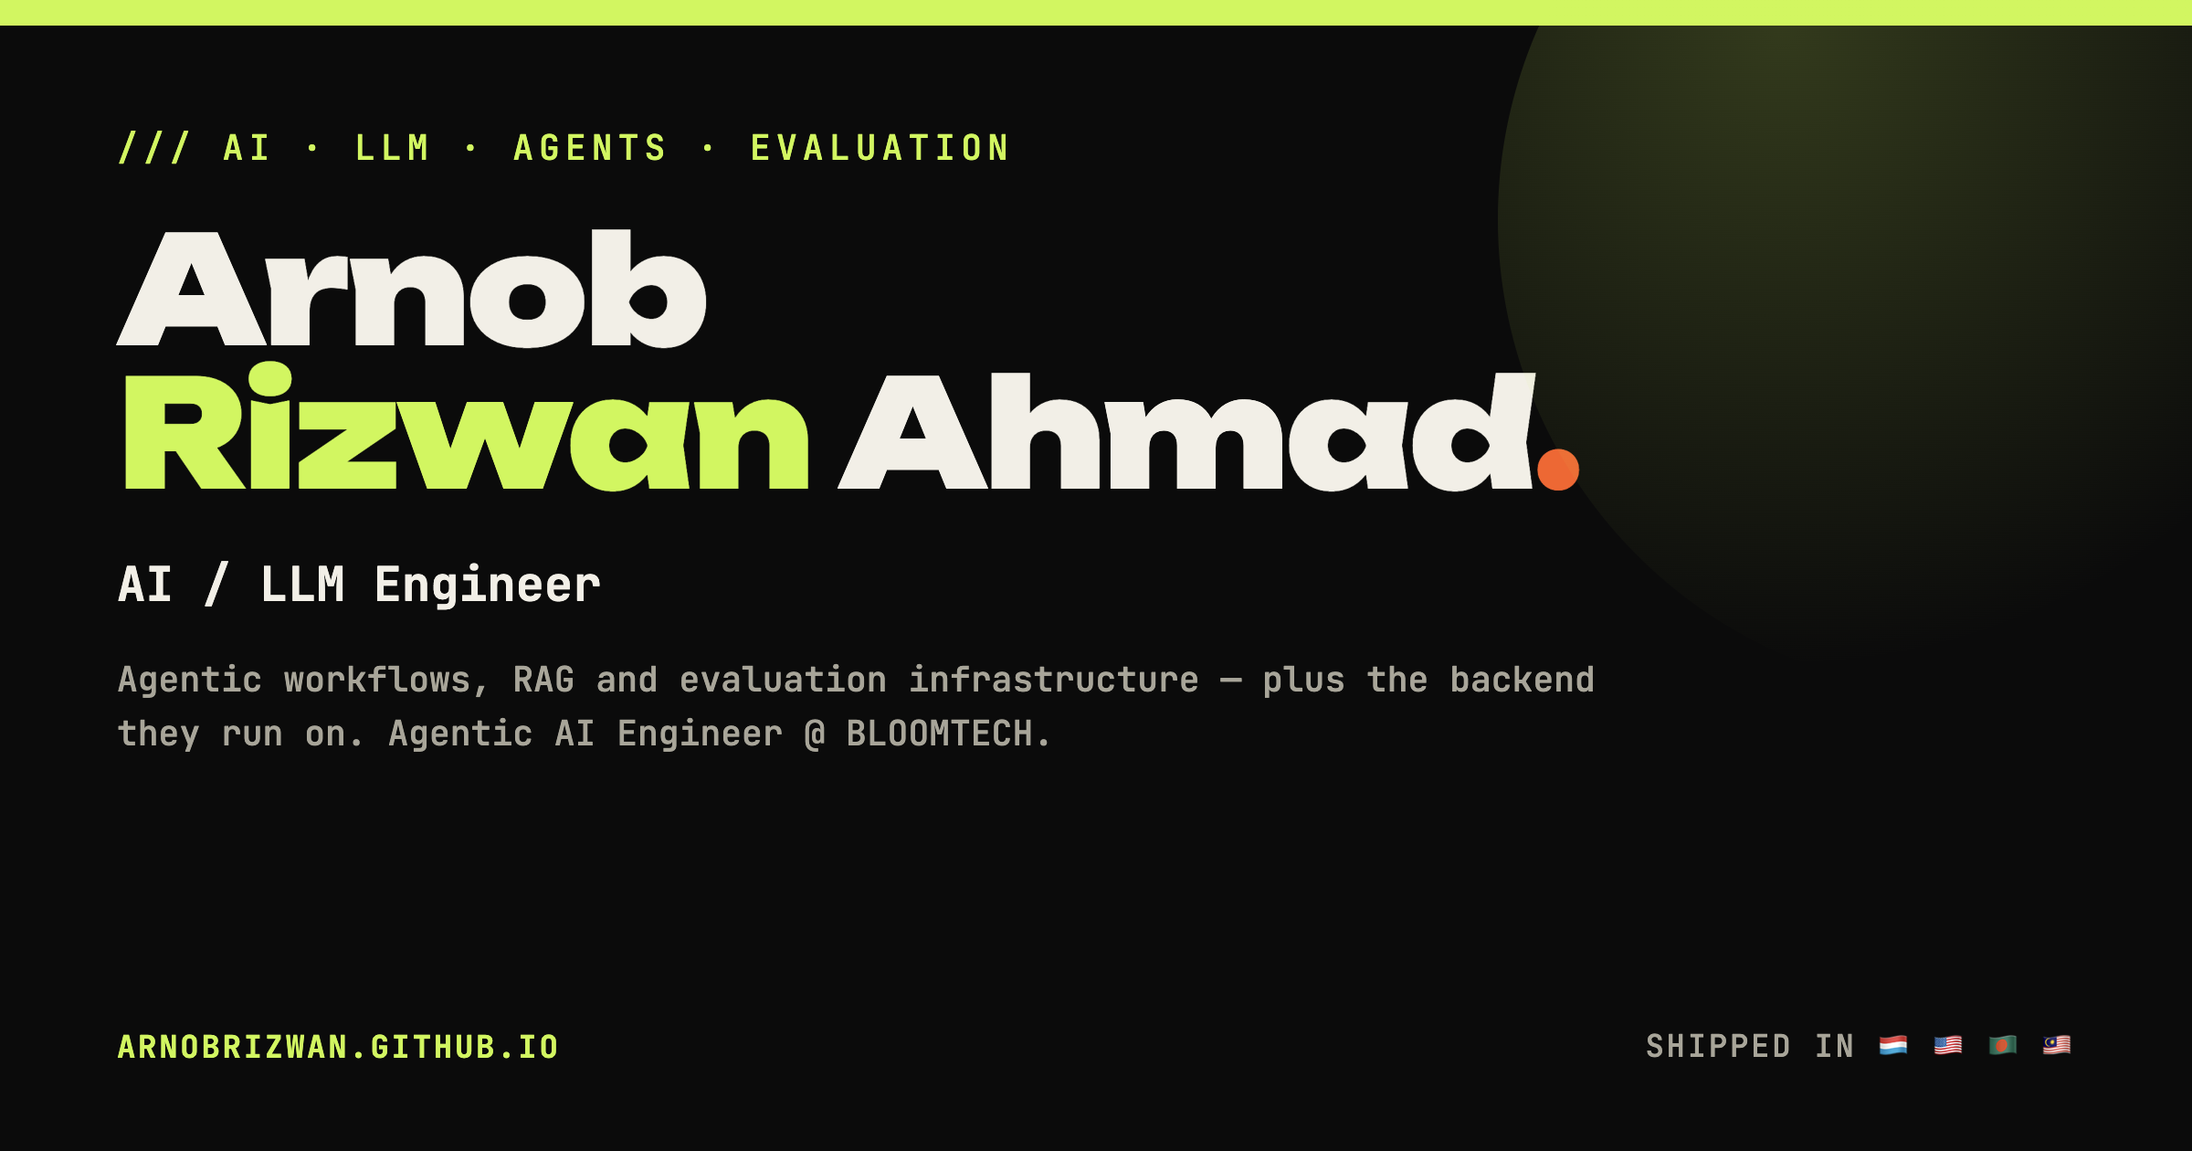
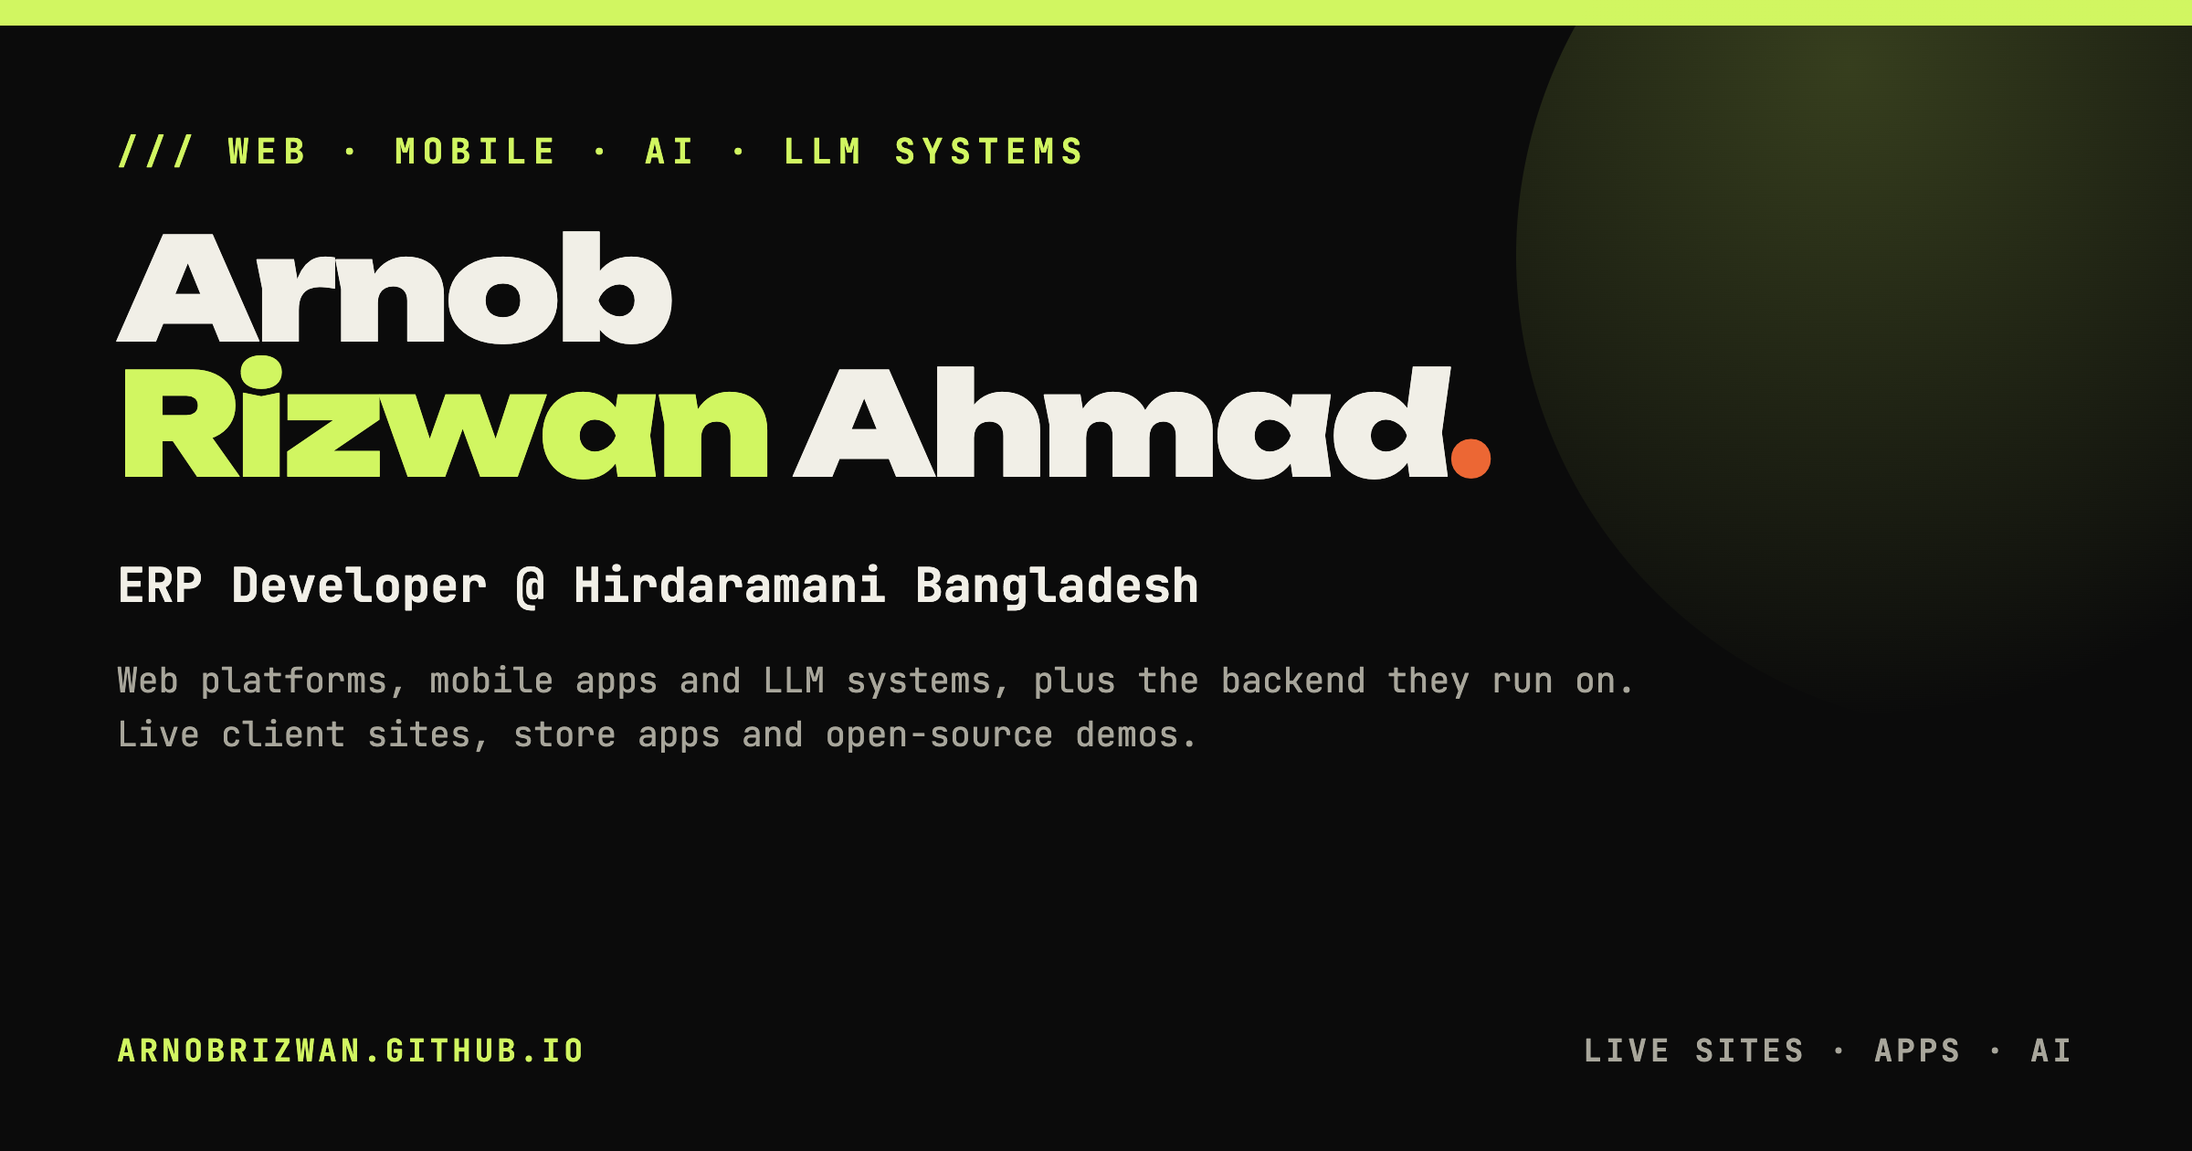
Refresh client project showcase and public app status

diff --git a/index.html b/index.html
@@ -4,16 +4,16 @@
 <meta charset="UTF-8">
 <meta name="viewport" content="width=device-width, initial-scale=1.0">
 <title>ARNOB RIZWAN AHMAD — AI / LLM Engineer</title>
-<meta name="description" content="Arnob Rizwan Ahmad — AI/LLM engineer building agentic workflows, RAG and evaluation infrastructure. ERP Developer at Hirdaramani, previously Agentic AI Engineer at BLOOMTECH, shipping products across 5 countries.">
+<meta name="description" content="Arnob Rizwan Ahmad — AI/LLM and full-stack engineer. ERP Developer at Hirdaramani Bangladesh, building web platforms, mobile apps and LLM systems for clients.">
 <meta property="og:title" content="Arnob Rizwan Ahmad — AI / LLM Engineer">
   <meta property="og:type" content="website">
   <meta property="og:url" content="https://arnobrizwan.github.io/">
   <meta name="twitter:card" content="summary_large_image">
-  <meta property="og:image" content="https://arnobrizwan.github.io/og-image.png">
-  <meta property="og:image:width" content="1200">
-  <meta property="og:image:height" content="630">
-  <meta name="twitter:image" content="https://arnobrizwan.github.io/og-image.png">
-<meta property="og:description" content="AI/LLM engineer building agentic workflows, RAG and evaluation infrastructure. ERP Developer at Hirdaramani. Shipping across 5 countries.">
+  <meta property="og:image" content="https://arnobrizwan.github.io/og-image.png?v=20261110">
+  <meta property="og:image:width" content="2400">
+  <meta property="og:image:height" content="1260">
+  <meta name="twitter:image" content="https://arnobrizwan.github.io/og-image.png?v=20261110">
+<meta property="og:description" content="AI/LLM and full-stack engineer. ERP Developer at Hirdaramani Bangladesh, building web platforms, mobile apps and LLM systems for clients.">
 <link rel="canonical" href="https://arnobrizwan.github.io/">
 <link rel="icon" href="favicon.svg" type="image/svg+xml">
 <link rel="icon" href="favicon-32.png" type="image/png" sizes="32x32">
@@ -37,12 +37,12 @@
 }
 *{margin:0;padding:0;box-sizing:border-box}
 ::selection{background:var(--acid);color:var(--ink)}
-html{scroll-behavior:smooth}
+html{scroll-behavior:smooth;overflow-x:clip}
 body{
   background:var(--ink);
   color:var(--paper);
   font-family:'Archivo',sans-serif;
-  overflow-x:hidden;
+  overflow-x:clip;
 }
 
 /* ---------- grain ---------- */
@@ -435,7 +435,7 @@ footer .kicker{font-family:'JetBrains Mono',monospace;font-size:12px;text-transf
 </header>
 
 <div class="stats reveal">
-  <div class="stat"><div class="num" data-count="47">47</div><div class="lbl">Projects On This Page</div></div>
+  <div class="stat"><div class="num" data-count="52">52</div><div class="lbl">Projects On This Page</div></div>
   <div class="stat"><div class="num" data-count="5">5</div><div class="lbl">Countries Shipped To</div></div>
   <div class="stat"><div class="num" data-count="40">40</div><div class="lbl">Schools On My App</div></div>
   <div class="stat"><div class="num" data-count="10">10</div><div class="lbl">AI Agents, One Platform</div></div>
@@ -586,12 +586,16 @@ footer .kicker{font-family:'JetBrains Mono',monospace;font-size:12px;text-transf
       <div class="tags"><span class="tag">Node.js</span><span class="tag">Serverless</span><span class="tag">Lighthouse</span><span class="tag">Web Security</span><span class="tag">Vercel</span></div>
       <span class="live-open">Open the tool ↗</span>
     </a>
-    <div class="live-card reveal no-link" id="project-fazar-mate">
-      <div class="live-ph" aria-hidden="true"><span class="ph-k">Flutter · Next.js · PostgreSQL</span><span class="ph-n">Fazar Mate</span><span class="ph-l">Android closed testing · iOS TestFlight</span></div>
-      <span class="live-badge is-app"><span class="live-dot"></span>Client App &middot; Store Testing</span>
+    <div class="live-card reveal" id="project-fazar-mate">
+      <div class="live-ph" aria-hidden="true"><span class="ph-k">Flutter · Next.js · PostgreSQL</span><span class="ph-n">Fazar Mate</span><span class="ph-l">↗ App Store · Google Play</span></div>
+      <span class="live-badge is-app"><span class="live-dot"></span>Live on Stores &middot; Client App</span>
       <h3>Fazar Mate</h3>
-      <span class="live-url">Dawah Circle &middot; no public store release yet</span>
-      <p>Fajr prayer-tracking app with photo check-ins, streaks, points and qaza history. I built the Flutter app and its Next.js admin/API backend on PostgreSQL. Every new photo waits for manual review before points are awarded. Optional Google linking preserves history and points while guest mode stays available.</p>
+      <span class="live-url">Dawah Circle &middot; App Store &amp; Google Play</span>
+      <p>Fajr alarm and prayer-tracking app with live camera check-ins, streaks, points and qaza history. I built the Flutter app and its Next.js admin/API backend on PostgreSQL. New check-in photos are reviewed before points are awarded, and optional Google linking keeps history and points while guest mode stays available.</p>
+      <div class="live-dl">
+        <a href="https://apps.apple.com/us/app/fazar-mate-fajr-alarm/id6823421762" target="_blank" rel="noopener">↗ App Store &middot; iPhone</a>
+        <a href="https://play.google.com/store/apps/details?id=com.dawahcircle.fazarmate" target="_blank" rel="noopener">↗ Google Play &middot; Android</a>
+      </div>
       <div class="tags"><span class="tag">Flutter</span><span class="tag">Riverpod</span><span class="tag">Next.js</span><span class="tag">PostgreSQL</span><span class="tag">Google Sign-In</span></div>
     </div>
 
@@ -605,14 +609,45 @@ footer .kicker{font-family:'JetBrains Mono',monospace;font-size:12px;text-transf
       <span class="live-open">View the pilot landing page ↗</span>
     </a>
 
-    <div class="live-card reveal no-link" id="project-aturrr">
-      <div class="live-ph" aria-hidden="true"><span class="ph-k">Flutter · React + Vite · Cloud Functions</span><span class="ph-n">ATURRR</span><span class="ph-l">🔒 Private client build</span></div>
-      <span class="live-badge is-app"><span class="live-dot"></span>Client Build &middot; Mobile Testing &middot; Malaysia</span>
+    <a class="live-card reveal" id="project-unionspare" href="https://unionspare.com" target="_blank" rel="noopener">
+      <div class="live-ph" aria-hidden="true"><span class="ph-k">Next.js · Cloudflare Workers · D1 · R2</span><span class="ph-n">Union Spare</span><span class="ph-l">Bangla / English storefront</span></div>
+      <span class="live-badge"><span class="live-dot"></span>Live &middot; E-commerce &middot; Bangladesh 🇧🇩</span>
+      <h3>Union Spare</h3>
+      <span class="live-url">unionspare.com</span>
+      <p>Online shop for bike parts and LED headlights in Bangladesh. It opens in Bangla with an English toggle and light, dark or system themes. I built it on Next.js with OpenNext on Cloudflare Workers, using D1 for products and orders and R2 for media, plus an admin area for products, photo galleries, videos and pre-orders. Visitor analytics are first-party and cookieless.</p>
+      <div class="tags"><span class="tag">Next.js</span><span class="tag">OpenNext</span><span class="tag">Cloudflare D1</span><span class="tag">R2</span><span class="tag">Workers AI</span></div>
+      <span class="live-open">Visit site ↗</span>
+    </a>
+
+    <a class="live-card reveal" id="project-river-homeschool" href="https://riverhomeschool.com" target="_blank" rel="noopener">
+      <div class="live-ph" aria-hidden="true"><span class="ph-k">Next.js · NestJS · Flutter</span><span class="ph-n">River Homeschool</span><span class="ph-l">Website live · apps in testing</span></div>
+      <span class="live-badge"><span class="live-dot"></span>Live &middot; Client Work &middot; Education</span>
+      <h3>River Homeschool</h3>
+      <span class="live-url">riverhomeschool.com &middot; Android &amp; iOS apps in tester builds</span>
+      <p>Website and learning portal for a live online homeschool serving students in Bangladesh and abroad, in English and Bangla. I built the Next.js site, a NestJS API on Postgres and Flutter apps, with student, teacher, parent and admin dashboards, class check-ins, and an admin area where staff update teachers, gallery, blog, books and programs without code. The website is live; the mobile apps are with testers and not yet on public stores.</p>
+      <div class="tags"><span class="tag">Next.js</span><span class="tag">NestJS</span><span class="tag">PostgreSQL</span><span class="tag">Flutter</span><span class="tag">Cloudflare Workers</span></div>
+      <span class="live-open">Visit site ↗</span>
+    </a>
+
+    <a class="live-card reveal" id="project-astrielle" href="https://astrielle.org" target="_blank" rel="noopener">
+      <div class="live-ph" aria-hidden="true"><span class="ph-k">Next.js · Cloudflare Workers · D1</span><span class="ph-n">Astrielle</span><span class="ph-l">English / Bangla · youth organisation</span></div>
+      <span class="live-badge"><span class="live-dot"></span>Live &middot; Client Work &middot; Chittagong 🇧🇩</span>
+      <h3>Astrielle</h3>
+      <span class="live-url">astrielle.org</span>
+      <p>Website for a youth-led community organisation in Chittagong, in English and Bangla with light and dark themes. I lead the technical build on Next.js with OpenNext on Cloudflare Workers, D1 and R2: division, event, team, gallery and news pages, blood donor and blood request flows that show only aggregate availability in public, membership and volunteer forms, and an admin panel.</p>
+      <div class="tags"><span class="tag">Next.js</span><span class="tag">OpenNext</span><span class="tag">Cloudflare D1</span><span class="tag">R2</span><span class="tag">Turnstile</span></div>
+      <span class="live-open">Visit site ↗</span>
+    </a>
+
+    <a class="live-card reveal" id="project-aturrr" href="https://aturrr.com" target="_blank" rel="noopener">
+      <div class="live-ph" aria-hidden="true"><span class="ph-k">Flutter · React + Vite · Cloud Functions</span><span class="ph-n">ATURRR</span><span class="ph-l">Public site + client portals</span></div>
+      <span class="live-badge"><span class="live-dot"></span>Live &middot; Client Work &middot; Malaysia 🇲🇾</span>
       <h3>ATURRR</h3>
-      <span class="live-url">Private client deployment &middot; Android app in client testing</span>
-      <p>Lead management platform for a Malaysian financing consultancy. I built the Flutter customer app, role-based React portal and Firebase backend. Recent work added invoices, receipts and quotations with PDF export, plus branded transactional email and support delivery. It runs in English, Malay, Tamil and Chinese.</p>
+      <span class="live-url">aturrr.com &middot; mobile app not yet on public stores</span>
+      <p>Customer and staff platform for a Malaysian financing consultancy (a consultancy, not a lender). I built the public site, role-based React portals for customers, office staff, agents and bankers, a Flutter customer app and the Firebase backend. Recent work added invoices, receipts and quotations with PDF export, office visit booking and four languages: English, Malay, Chinese and Tamil. The mobile app is still in testing.</p>
       <div class="tags"><span class="tag">Flutter</span><span class="tag">React + Vite</span><span class="tag">Cloud Functions</span><span class="tag">Firestore</span></div>
-    </div>
+      <span class="live-open">Visit site ↗</span>
+    </a>
 
     <div class="live-card reveal no-link">
       <div class="live-ph" aria-hidden="true"><span class="ph-k">Flutter · React + Vite · Cloud Functions</span><span class="ph-n">RinggitNow</span><span class="ph-l">🔒 Private client build</span></div>
@@ -624,12 +659,12 @@ footer .kicker{font-family:'JetBrains Mono',monospace;font-size:12px;text-transf
     </div>
 
     <div class="live-card reveal no-link">
-      <div class="live-ph" aria-hidden="true"><span class="ph-k">ASP.NET Core · Angular · SQL Server</span><span class="ph-n">Lab Test Management System</span><span class="ph-l">🔒 Internal employer system</span></div>
+      <div class="live-ph" aria-hidden="true"><span class="ph-k">.NET 10 · Angular · SQL Server · IIS</span><span class="ph-n">Lab Test Management System</span><span class="ph-l">🔒 Internal employer system</span></div>
       <span class="live-badge is-app"><span class="live-dot"></span>Employer Project &middot; Bangladesh 🇧🇩 &middot; 🔒 No public link</span>
       <h3>Lab Test Management System</h3>
-      <span class="live-url">Hirdaramani Group &middot; internal system</span>
-      <p>Internal system for Hirdaramani Group that takes lab test requests from submission through approval, lab work, reporting and payment, with printable reports in five languages. ASP.NET Core with Clean Architecture and CQRS, an Angular front end and SQL Server, covered by automated tests.</p>
-      <div class="tags"><span class="tag">ASP.NET Core</span><span class="tag">Angular</span><span class="tag">SQL Server</span><span class="tag">CQRS</span><span class="tag">EF Core</span></div>
+      <span class="live-url">Hirdaramani Group &middot; company server deployment &middot; no public link</span>
+      <p>Internal system for Hirdaramani Group that takes lab test requests from submission through approval routing, lab work, reporting and payment, with printable reports in five languages. ASP.NET Core on .NET 10 with Clean Architecture and CQRS, an Angular front end and SQL Server, covered by automated tests and packaged for the company's own Windows Server and IIS.</p>
+      <div class="tags"><span class="tag">.NET 10</span><span class="tag">ASP.NET Core</span><span class="tag">Angular</span><span class="tag">SQL Server</span><span class="tag">CQRS</span><span class="tag">EF Core</span></div>
     </div>
 
     <div class="live-card reveal no-link">
@@ -791,12 +826,21 @@ footer .kicker{font-family:'JetBrains Mono',monospace;font-size:12px;text-transf
     </div>
 
     <div class="live-card reveal no-link">
-      <div class="live-ph" aria-hidden="true"><span class="ph-k">Flutter · Dart API · WebSocket</span><span class="ph-n">ShopLocalr</span><span class="ph-l">🔒 iOS TestFlight</span></div>
-      <span class="live-badge is-app"><span class="live-dot"></span>Live Backend &middot; Mobile Store Testing</span>
+      <div class="live-ph" aria-hidden="true"><span class="ph-k">Flutter · Dart API · WebSocket</span><span class="ph-n">ShopLocalr</span><span class="ph-l">🔒 iOS in App Review · Android closed test</span></div>
+      <span class="live-badge is-app"><span class="live-dot"></span>Live Backend &middot; Apps in Store Review</span>
       <h3>ShopLocalr</h3>
-      <span class="live-url">Private client deployment · USA 🇺🇸</span>
+      <span class="live-url">Private client deployment &middot; no public store release yet &middot; USA 🇺🇸</span>
       <p>Flutter local-business discovery app with explorer, business and admin roles, deals, loyalty rewards, reviews and shop messaging. I built its self-hosted Dart API and WebSocket updates, then deployed a compatible backend upgrade without resetting existing users and restored nearby-shop and deal discovery. Android closed-test and iOS TestFlight builds support release testing.</p>
       <div class="tags"><span class="tag">Flutter</span><span class="tag">Dart API</span><span class="tag">WebSocket</span><span class="tag">Docker</span><span class="tag">GCP</span></div>
+    </div>
+
+    <div class="live-card reveal no-link" id="project-ashiana">
+      <div class="live-ph" aria-hidden="true"><span class="ph-k">iOS signing · TestFlight · App Store Connect</span><span class="ph-n">Ashiana Health</span><span class="ph-l">iOS release support only</span></div>
+      <span class="live-badge is-app"><span class="live-dot"></span>iOS Release Support &middot; Client App</span>
+      <h3>Ashiana Health</h3>
+      <span class="live-url">Client-owned app &middot; App Store review pending &middot; no public link</span>
+      <p>iOS release support for a client's health app. I did not build the app. My part was the iOS signing and build, a review of the build and its API setup before release, and the TestFlight and App Store submission. It is waiting for Apple review, so there is no public listing yet.</p>
+      <div class="tags"><span class="tag">iOS Signing</span><span class="tag">TestFlight</span><span class="tag">App Store Connect</span><span class="tag">Release QA</span></div>
     </div>
 
     <div class="live-card reveal no-link">

diff --git a/og-image-src.html b/og-image-src.html
@@ -1,0 +1,36 @@
+<!DOCTYPE html>
+<html lang="en">
+<head>
+<meta charset="UTF-8">
+<meta name="robots" content="noindex">
+<title>og-image source</title>
+<!-- Source for og-image.png. Render at a 1200x630 viewport with deviceScaleFactor 2 (2400x1260 output). -->
+<link href="https://fonts.googleapis.com/css2?family=Unbounded:wght@800;900&family=JetBrains+Mono:wght@400;700&display=swap" rel="stylesheet">
+<style>
+*{margin:0;padding:0;box-sizing:border-box}
+html,body{width:1200px;height:630px;overflow:hidden;background:#0b0b0b}
+.card{position:relative;width:1200px;height:630px;padding:62px 64px 0;color:#f2efe6;background:#0b0b0b;overflow:hidden}
+.card::before{content:"";position:absolute;left:0;top:0;right:0;height:14px;background:#c8f73c}
+.orb{position:absolute;right:-150px;top:-120px;width:520px;height:520px;border-radius:50%;background:radial-gradient(circle at 35% 30%,rgba(200,247,60,.22),rgba(200,247,60,.04) 60%,transparent 72%)}
+.kick{font-family:'JetBrains Mono',monospace;font-weight:700;font-size:19px;letter-spacing:.2em;color:#c8f73c;margin-top:8px}
+h1{font-family:'Unbounded',sans-serif;font-weight:900;font-size:78px;line-height:.95;letter-spacing:-.03em;margin-top:26px}
+h1 .g{color:#c8f73c}
+h1 .z{color:#ff5c1a}
+.role{font-family:'JetBrains Mono',monospace;font-weight:700;font-size:26px;margin-top:34px}
+.desc{font-family:'JetBrains Mono',monospace;font-size:19px;line-height:1.55;color:#a9a69a;margin-top:20px;max-width:860px}
+.foot{position:absolute;left:64px;right:64px;bottom:44px;display:flex;justify-content:space-between;align-items:center;font-family:'JetBrains Mono',monospace;font-weight:700;font-size:17px;letter-spacing:.12em}
+.foot .u{color:#c8f73c}
+.foot .r{color:#a9a69a}
+</style>
+</head>
+<body>
+<div class="card">
+  <div class="orb"></div>
+  <div class="kick">/// WEB · MOBILE · AI · LLM SYSTEMS</div>
+  <h1>Arnob<br><span class="g">Rizwan</span> Ahmad<span class="z">.</span></h1>
+  <div class="role">ERP Developer @ Hirdaramani Bangladesh</div>
+  <div class="desc">Web platforms, mobile apps and LLM systems, plus the backend they run on. Live client sites, store apps and open-source demos.</div>
+  <div class="foot"><span class="u">ARNOBRIZWAN.GITHUB.IO</span><span class="r">LIVE SITES · APPS · AI</span></div>
+</div>
+</body>
+</html>
